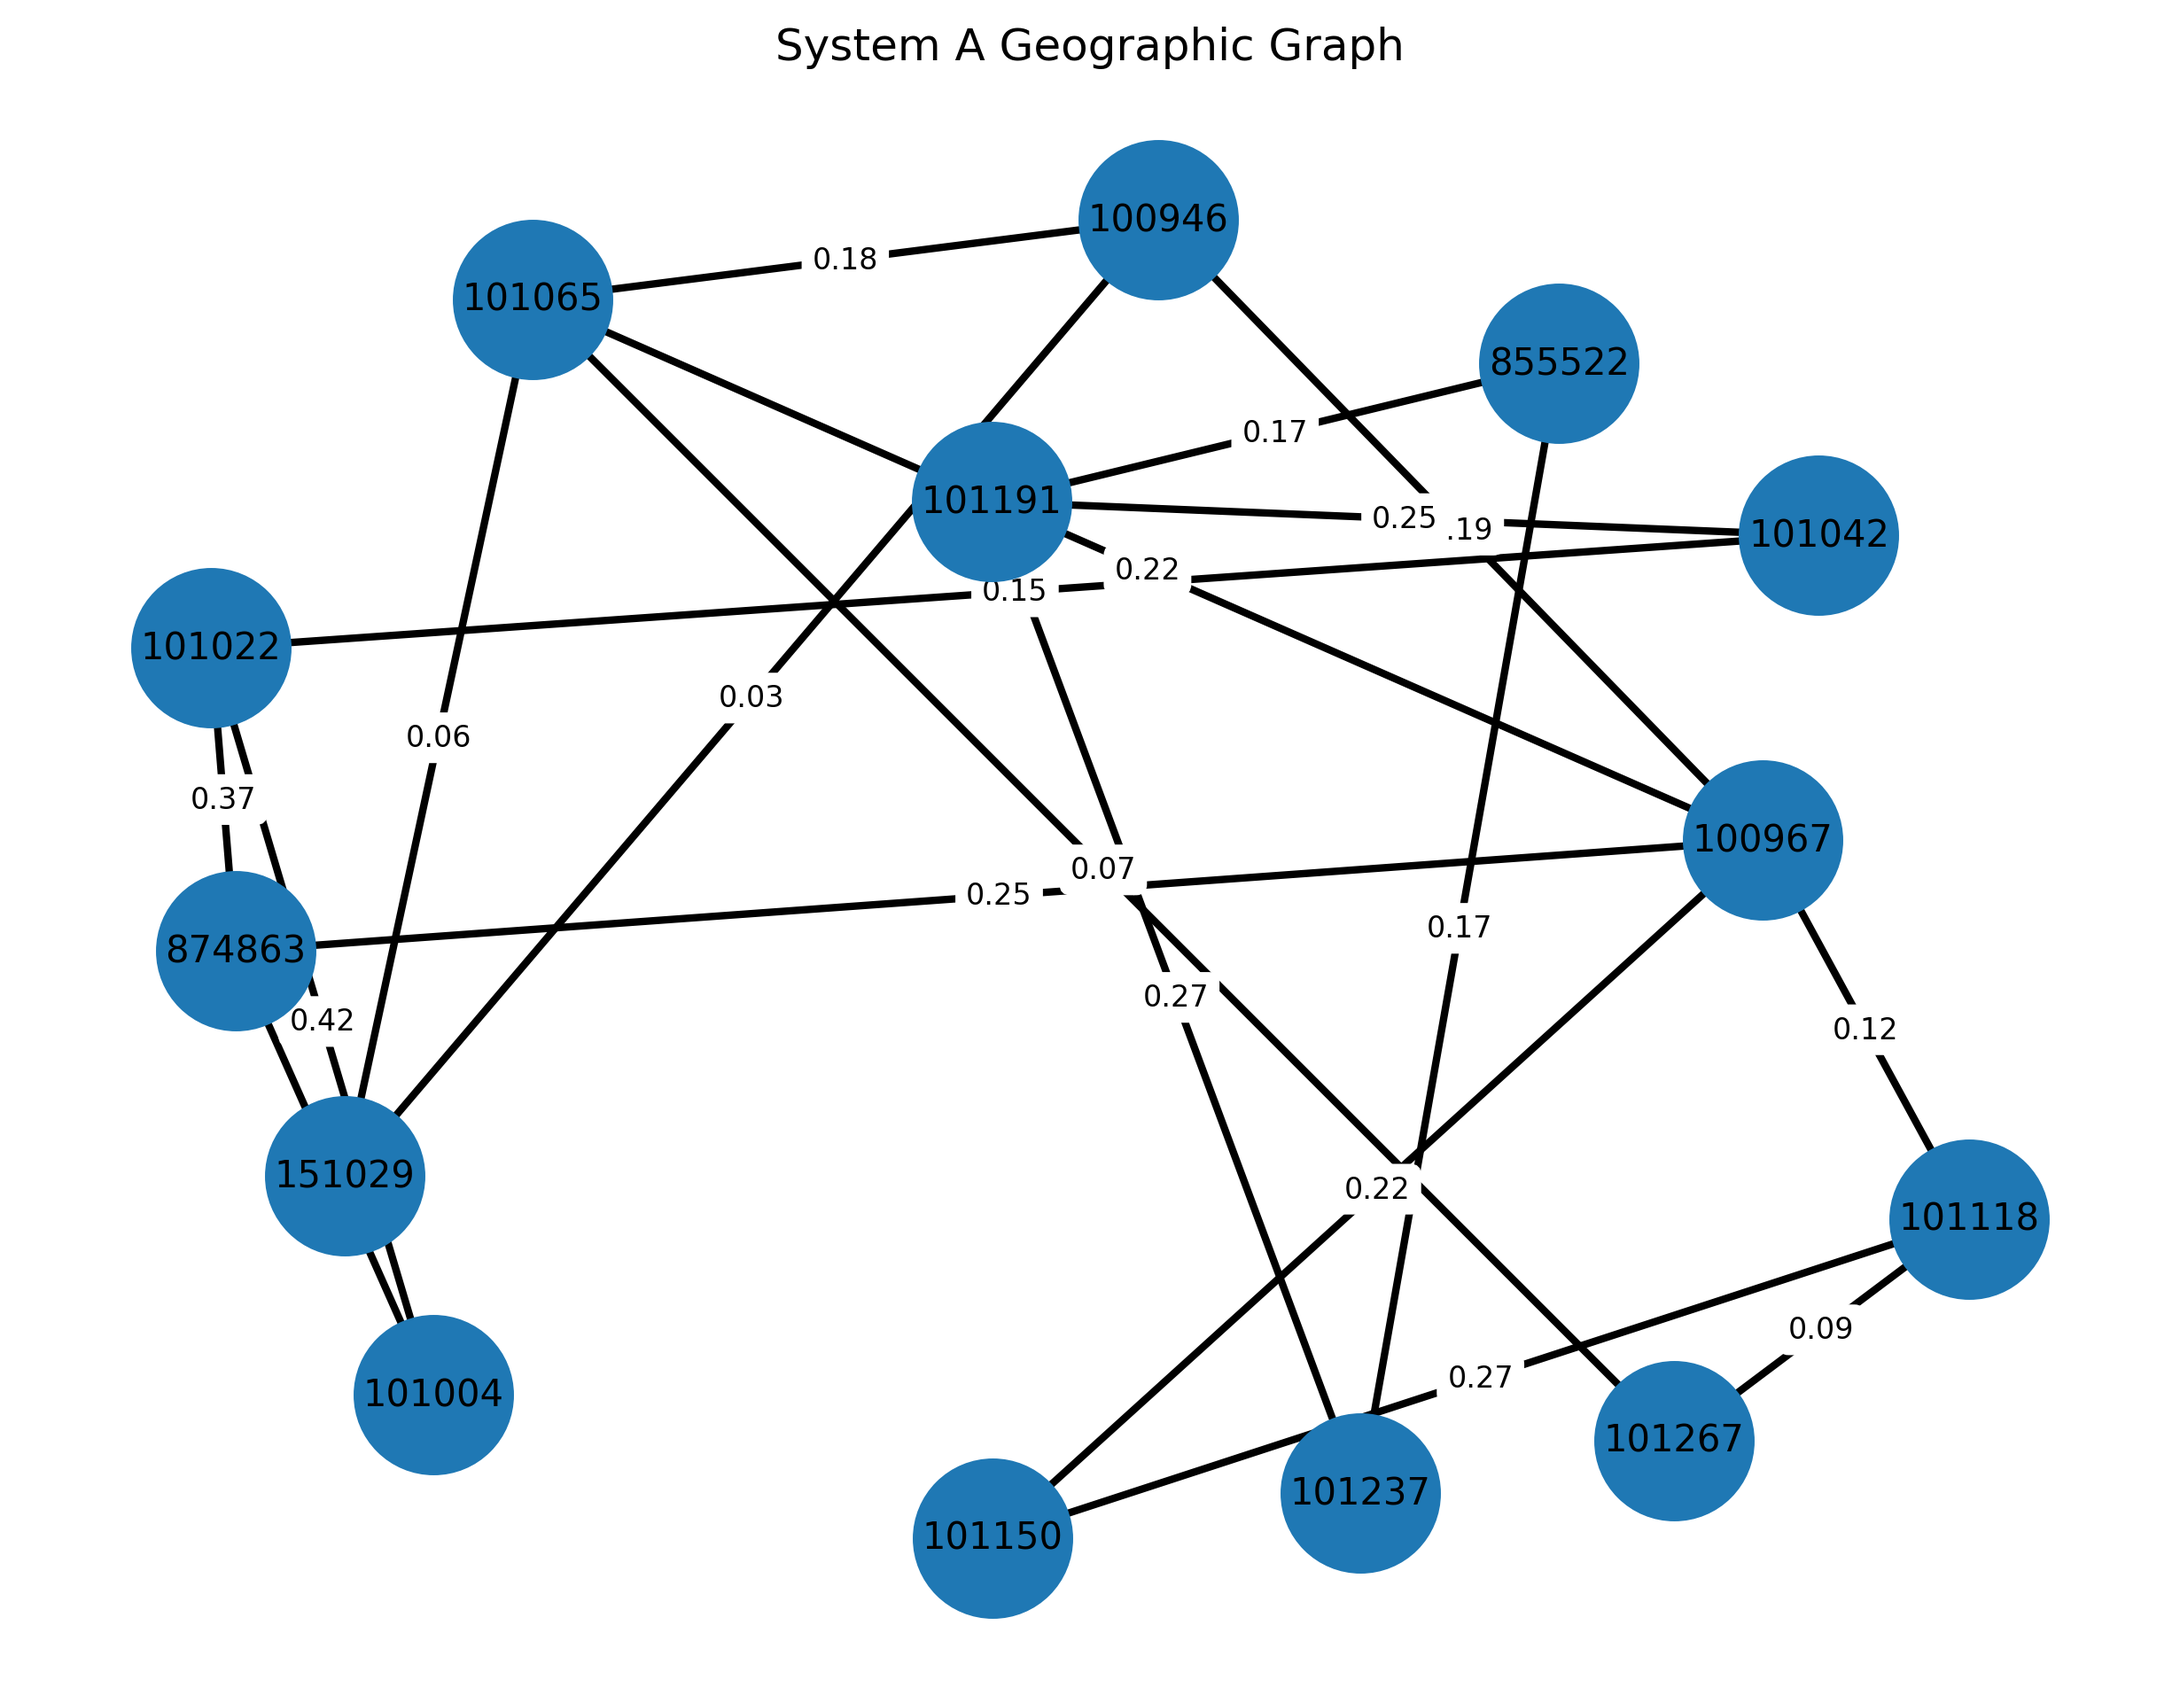
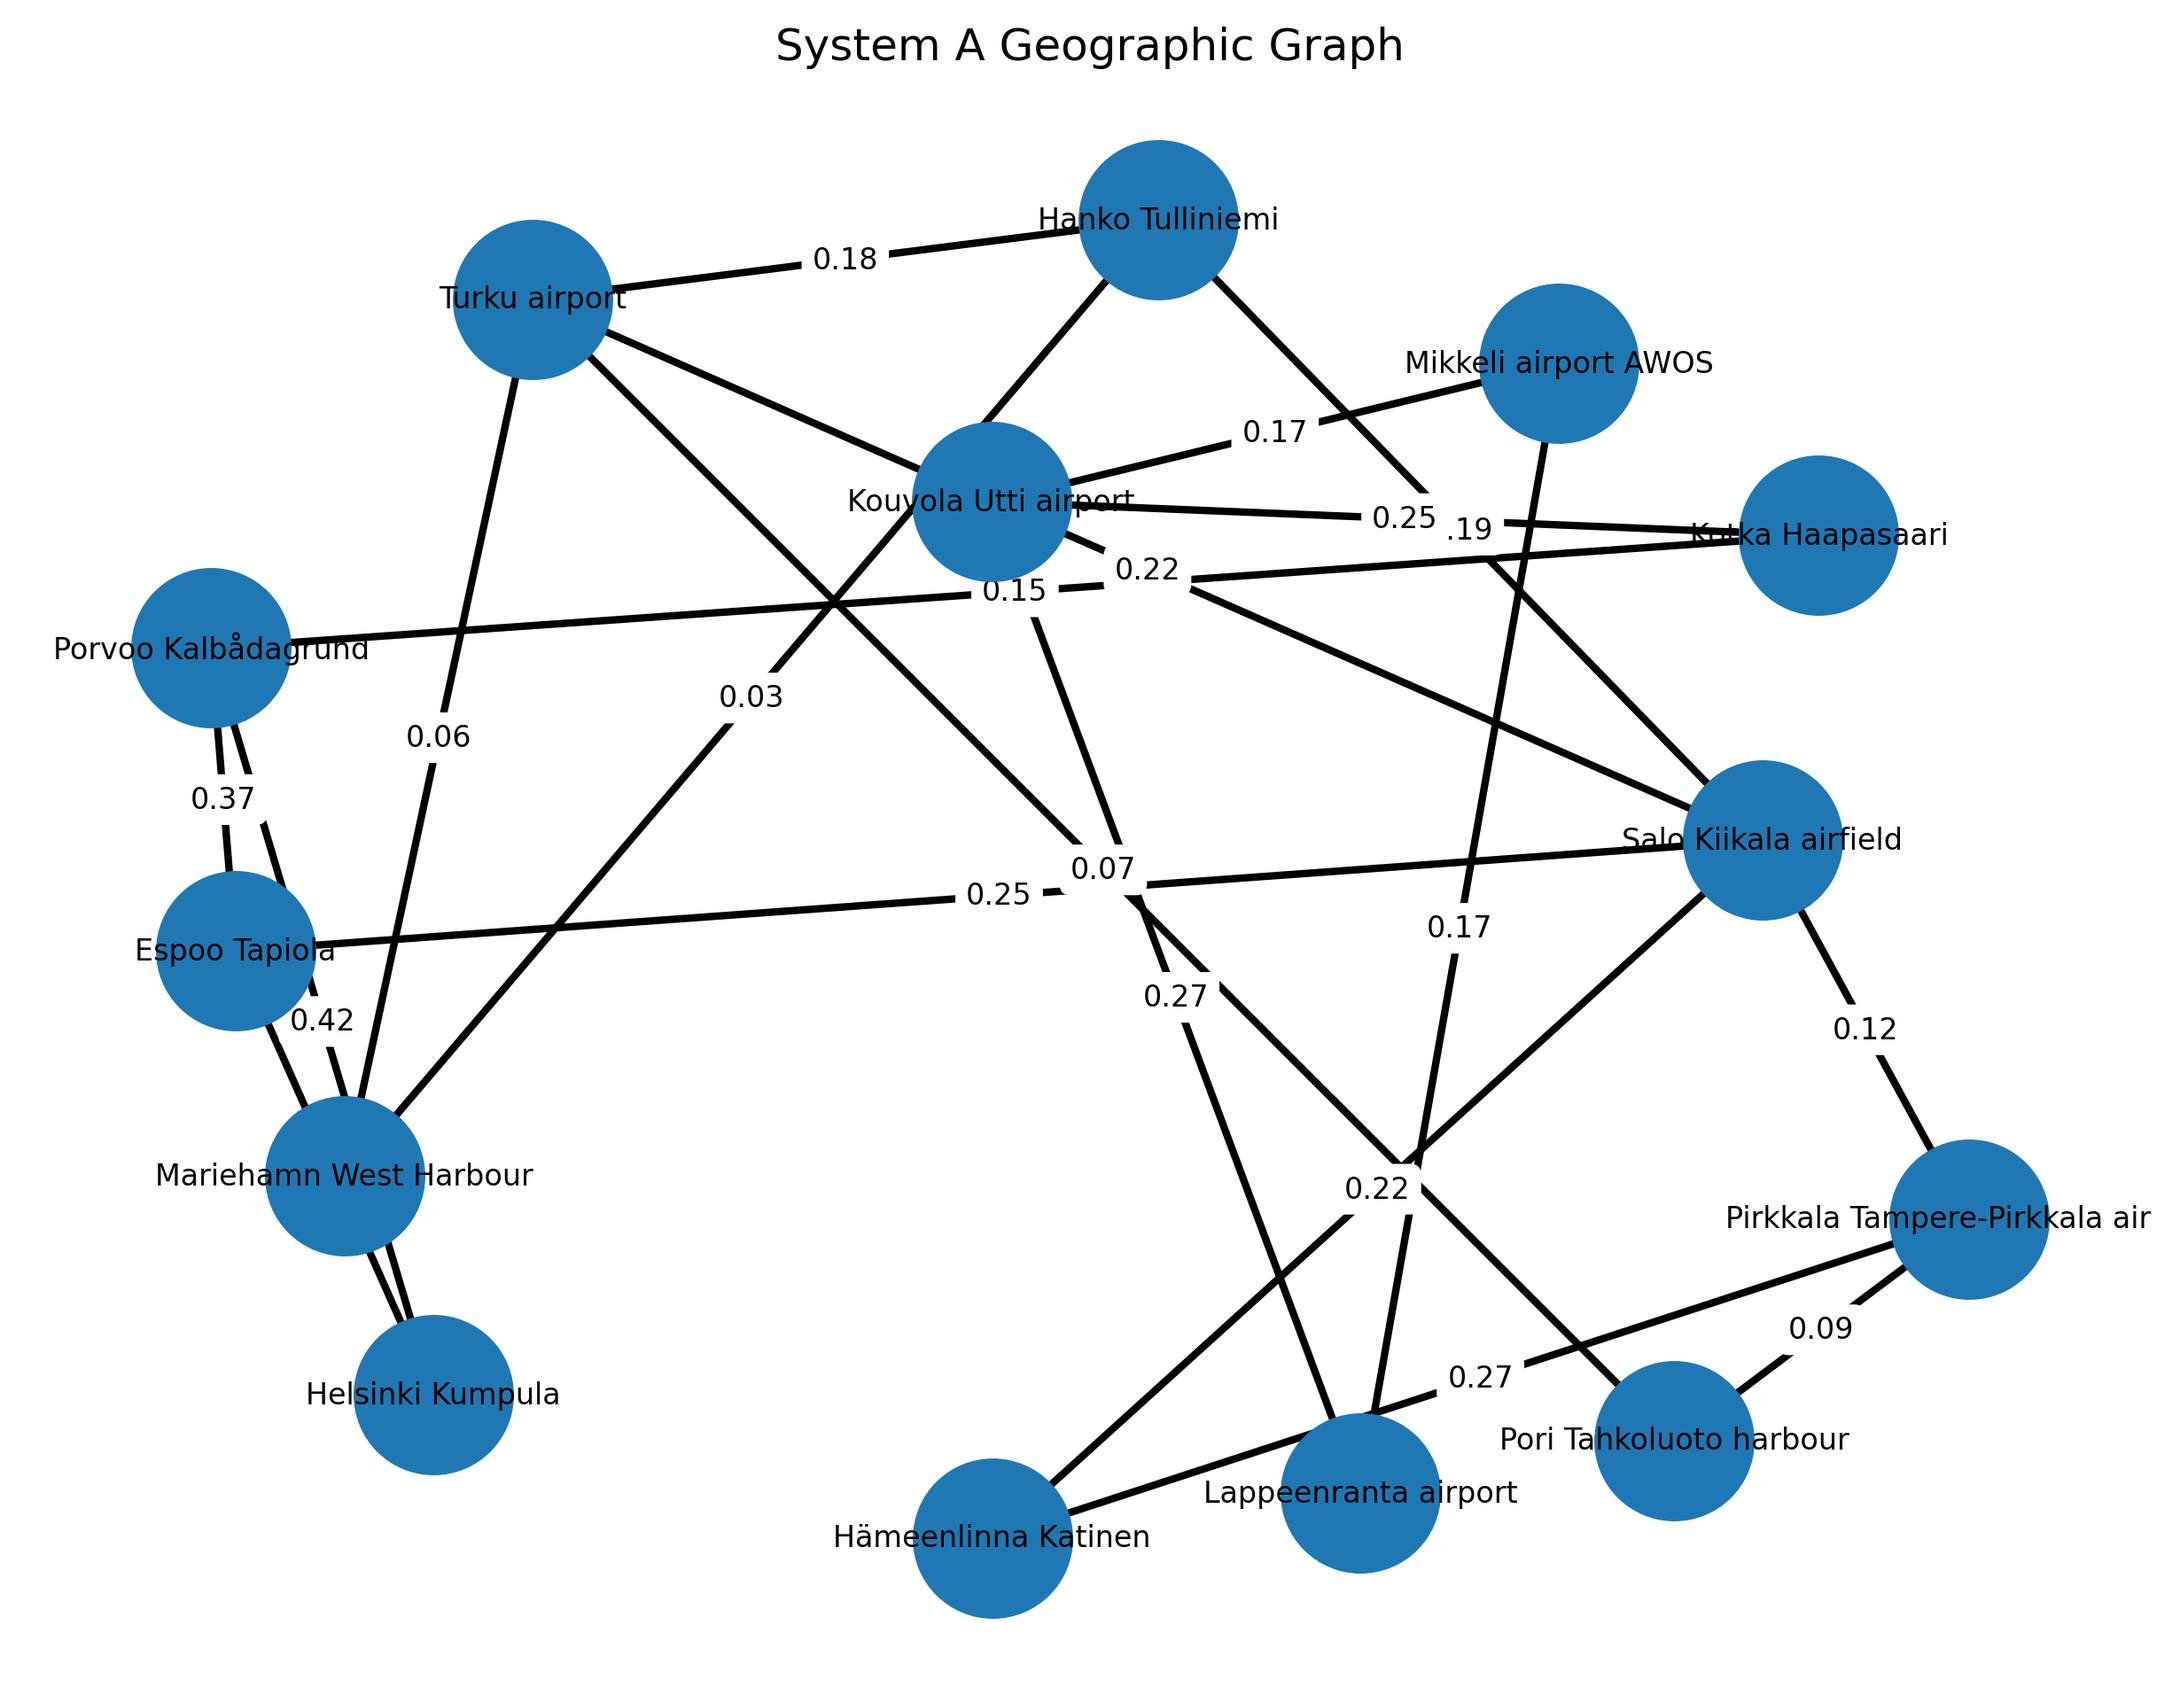
fix: remove gtvmin retraining for loss and some part for readable

diff --git a/main.py b/main.py
@@ -165,49 +165,24 @@ def visualize_graph(A, station_ids, title, save_path):
     for i in range(len(station_ids)):
         for j in range(i + 1, len(station_ids)):
             if A[i, j] > 0:
-                G.add_edge(
-                    station_ids[i],
-                    station_ids[j],
-                    weight=round(A[i, j], 2)
-                )
+                G.add_edge(station_ids[i], station_ids[j], weight=round(A[i, j], 2))
 
     plt.figure(figsize=(8, 6))
 
-    pos = nx.spring_layout(
-        G,
-        seed=42,
-        k=1.5
-    )
+    pos = nx.spring_layout(G, seed=42, k=1.5)  # positions for all nodes
 
-    nx.draw(
-        G,
-        pos,
-        with_labels=True,
-        node_size=1800,
-        font_size=10,
-        width=2
-    )
+    labels = {sid: STATIONS[sid]["name"] for sid in station_ids}
+    nx.draw(G, pos, with_labels=True, labels=labels, node_size=1800, font_size=8, width=2)
 
     edge_labels = nx.get_edge_attributes(G, "weight")
-
-    nx.draw_networkx_edge_labels(
-        G,
-        pos,
-        edge_labels=edge_labels,
-        font_size=8,
-        rotate=False
-    )
+    nx.draw_networkx_edge_labels(G, pos, edge_labels=edge_labels, font_size=8, rotate=False)
 
     plt.title(title)
     plt.axis("off")
 
     plt.tight_layout()
 
-    plt.savefig(
-        save_path,
-        dpi=300,
-        bbox_inches="tight"
-    )
+    plt.savefig(save_path, dpi=300, bbox_inches="tight")
 
     plt.close()
     
@@ -256,22 +231,19 @@ def main() -> None:
     best_geo = None
     for alpha in args.alphas:
         try:
-            W_geo, _ = train_gtvmin(stations, station_ids, A_geo, alpha, args.iterations, args.lr, args.regularize_intercept)
+            W_geo, hist_geo = train_gtvmin(stations, station_ids, A_geo, alpha, args.iterations, args.lr, args.regularize_intercept)
             val_mse, val_mae, _ = evaluate_params(W_geo, stations, station_ids, "val")
             print(f"  System A alpha={alpha:g}: val MSE={val_mse:.4f}, val MAE={val_mae:.4f}")
         except FloatingPointError as exc:
             print(f"  System A alpha={alpha:g}: skipped ({exc})")
             continue
         if best_geo is None or val_mse < best_geo["val_mse"]:
-            best_geo = {"alpha": alpha, "val_mse": val_mse, "W": W_geo}
+            best_geo = {"alpha": alpha, "val_mse": val_mse, "W": W_geo, "loss_hist": hist_geo}
 
     if best_geo is None:
         raise RuntimeError("All System A alpha values diverged. Try --lr 0.001")
         
-    _, loss_hist_geo = train_gtvmin(
-        stations, station_ids, A_geo,
-        best_geo["alpha"], args.iterations, args.lr, args.regularize_intercept
-    )
+    loss_hist_geo = best_geo["loss_hist"] 
 
     summary, detail = evaluate_all_splits(
         f"System A Geographic (alpha={best_geo['alpha']:g}, k={args.k})",
@@ -290,22 +262,19 @@ def main() -> None:
             continue
         for alpha in args.alphas:
             try:
-                W_corr, _ = train_gtvmin(stations, station_ids, A_corr, alpha, args.iterations, args.lr, args.regularize_intercept)
+                W_corr, hist_corr = train_gtvmin(stations, station_ids, A_corr, alpha, args.iterations, args.lr, args.regularize_intercept)
                 val_mse, val_mae, _ = evaluate_params(W_corr, stations, station_ids, "val")
                 print(f"  System B threshold={threshold:g}, alpha={alpha:g}, edges={n_edges}: val MSE={val_mse:.4f}, val MAE={val_mae:.4f}")
             except FloatingPointError as exc:
                 print(f"  System B threshold={threshold:g}, alpha={alpha:g}: skipped ({exc})")
                 continue
             if best_corr is None or val_mse < best_corr["val_mse"]:
-                best_corr = {"threshold": threshold, "alpha": alpha, "val_mse": val_mse, "W": W_corr, "A": A_corr, "n_edges": n_edges}
+                best_corr = {"threshold": threshold, "alpha": alpha, "val_mse": val_mse, "W": W_corr, "A": A_corr, "n_edges": n_edges, "loss_hist": hist_corr}
 
     if best_corr is None:
         raise RuntimeError("No valid correlation graph. Try lower thresholds, e.g. --corr_thresholds 0.1 0.2 0.3 0.4 0.5")
 
-    _, loss_hist_corr = train_gtvmin(
-        stations, station_ids, best_corr["A"],
-        best_corr["alpha"], args.iterations, args.lr, args.regularize_intercept
-    )
+    loss_hist_corr = best_corr["loss_hist"] 
 
     graph_edges_dataframe(best_corr["A"], station_ids, STATIONS).to_csv(out_dir / "system_B_correlation_edges.csv", index=False)
     summary, detail = evaluate_all_splits(

diff --git a/data_api.py b/data_api.py
@@ -21,26 +21,26 @@ PARAMETERS = [
 # uncomment or add more stations to download and check data availability for 2025
 # you can also check the station list and their fmisid from https://en.ilmatieteenlaitos.fi/open-data-stations
 STATIONS = {
-    #101004: "Helsinki Kumpula",
+    101004: "Helsinki Kumpula",
     #104796: "Lahti Sopenkorpi", not enough data available for 2025
-    #101042: "Kotka Haapasaari",
-    #101237: "Lappeenranta airport",
-    #101150: "Hämeenlinna Katinen",
-    #101118: "Pirkkala Tampere-Pirkkala airport",
-    #100946: "Hanko Tulliniemi",
-    #101065: "Turku airport",
-    #100967: "Salo Kiikala airfield",
-    #101191: "Kouvola Utti airport",
-    #855522: "Mikkeli airport AWOS",
-    #101267: "Pori Tahkoluoto harbour",
-    #151029: "Mariehamn West Harbour",
+    101042: "Kotka Haapasaari",
+    101237: "Lappeenranta airport",
+    101150: "Hämeenlinna Katinen",
+    101118: "Pirkkala Tampere-Pirkkala airport",
+    100946: "Hanko Tulliniemi",
+    101065: "Turku airport",
+    100967: "Salo Kiikala airfield",
+    101191: "Kouvola Utti airport",
+    855522: "Mikkeli airport AWOS",
+    101267: "Pori Tahkoluoto harbour",
+    151029: "Mariehamn West Harbour",
     #100691: "Espoo Leppävaara Läkkisepänkuja", not enough data available for 2025
     #100723: "Espoo Luukki", not enough data available for 2025
     #101000: "Espoo Latokaski", not enough data available for 2025
     #106949: "Espoo Länsiväylä Friisilä", not enough data available for 2025
     #108106: "Espoo Tapiola 4", not enough data available for 2025
-    #874863: "Espoo Tapiola",
-    #101022: "Porvoo Kalbådagrund",
+    874863: "Espoo Tapiola",
+    101022: "Porvoo Kalbådagrund",
     #108157: "Vantaa Kehä III Viinikkala", not enough data available for 2025
     #103807: "Oulu Santapankki", not enough data available for 2025
     #108040: "Oulu Kaukovainio", not enough data available for 2025

diff --git a/README.md b/README.md
@@ -55,10 +55,10 @@ Number of stations:
 - 12 stations in southern Finland
 
 Train / validation / test split:
-- 60% train
-- 20% validation
-- 20% test
-
+- Train: Jan–Jul 2025
+- Validation: Aug–Sep 2025
+- Test: Oct–Dec 2025
+(60/20/20 chronological split if full-year 2025 data is unavailable for a station.)
 Chronological splitting is used because this is a time-series prediction problem.
 
 ---
